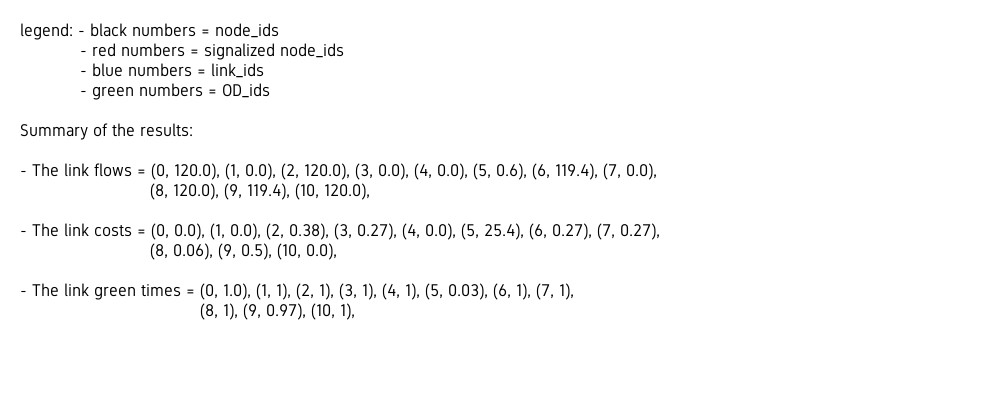
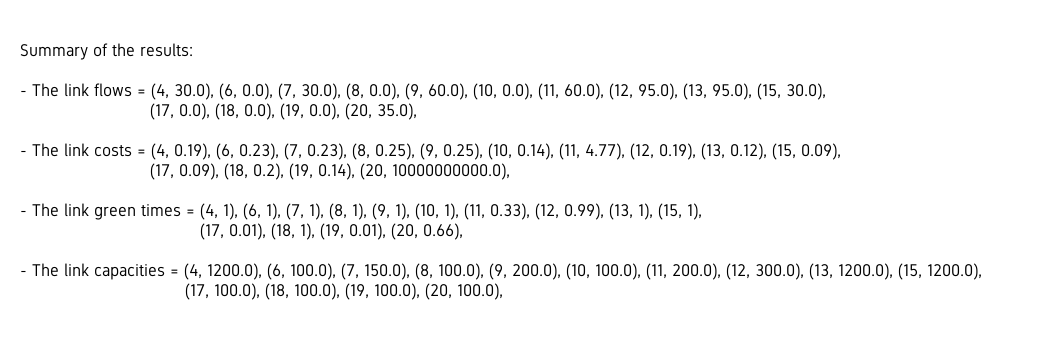
clean up of summaries + adjustment in de summary making (added capacity)

diff --git a/ownCode/network_summary.py b/ownCode/network_summary.py
@@ -6,7 +6,7 @@ from html2image import Html2Image
 import cv2
 
 def text_to_image(textString, size = 'summary'):
-    img = Image.new('RGB', (500, 400), (255, 255, 255)) if size == 'summary' else Image.new('RGB', (1000, 400), (255, 255, 255))
+    img = Image.new('RGB', (550, 400), (255, 255, 255)) if size == 'summary' else Image.new('RGB', (1050, 350), (255, 255, 255))
     d = ImageDraw.Draw(img)
     font = ImageFont.truetype(str(pathlib.Path(__file__).parent)+"/data/Gidole-Regular.ttf", size=17)
     d.text((20, 20), textString, fill=(0, 0, 0), font = font)
@@ -39,33 +39,38 @@ def create_summary(listOfPlots, string, property_string, method, policy, network
 
 
 def demand_summary(O_or_D, OD_flow, signalized_nodes):
-    string = '\n\nOD_nodes\n'
-    for idx, (x,y) in enumerate(O_or_D):
-        string+= '- {}: coordinates = ({},{})\n'.format(idx+1, x, y)
-    string += '\n\nFlows\n'
+    string = '\n\nDemands\n'
     for (o,d,flow) in OD_flow:
-        string+='- {} flow from: node {} -> node {}\n'.format(flow, o, d)
+        string+='- {} flow from: Origin_{} ->  Destination_{}\n'.format(flow, o, d)
     string += '\n\nSignalized nodes\n'
     for node_id in signalized_nodes:
         string += '- node {}\n'.format(node_id)
+    string += '\n\nLegend:\n- black numbers = node_ids\n- red numbers = signalized node_ids\n- blue numbers = link_ids\n- green numbers = OD_ids'
+
     return string
 
-def result_summary(result,greens):
-    string = 'legend: - black numbers = node_ids\n            - red numbers = signalized node_ids\n            - blue numbers = link_ids\n            - green numbers = OD_ids\n\nSummary of the results:\n\n'
+def result_summary(result,greens, capacities, non_connectors):
+    step = 0
+    string = '\nSummary of the results:\n\n'
     string1 = '- The link flows = '
     string2 = '- The link costs = '
     string3 = '- The link green times = '
+    string4 = '- The link capacities = '
+    for idx, (flow, cost, green, cap) in enumerate(zip(result.flows, result.link_costs, greens.values(), capacities)):
+        if idx in non_connectors:
+            string1 += '({}, {}), '.format(idx,round(flow,2)) 
+            string2 += '({}, {}), '.format(idx,round(cost,2))        
+            string3 += '({}, {}), '.format(idx,round(green,2))
+            string4 += '({}, {}), '.format(idx,round(cap,2))
+            step+=1
 
-    for idx, (flow, cost, green) in enumerate(zip(result.flows, result.link_costs, greens.values())):
-        string1 += '({}, {}), '.format(idx,round(flow,2)) 
-        string2 += '({}, {}), '.format(idx,round(cost,2))        
-        string3 += '({}, {}), '.format(idx,round(green,2))
-        if (idx+1)%8 == 0:
-            string1 += '\n                          '
-            string2 += '\n                          '
-            string3 += '\n                                    '
-
+            if (step)%10 == 0:
+                string1 += '\n                          '
+                string2 += '\n                          '
+                string3 += '\n                                    '
+                string4 += '\n                                 '
     string1 += '\n\n'
     string2 += '\n\n'
     string3 += '\n\n'
-    return string+string1+string2+string3
+    string4 += '\n\n'
+    return string+string1+string2+string3+string4

diff --git a/ownCode/main.py b/ownCode/main.py
@@ -28,37 +28,38 @@ def main():
         #two green time policies
         # 'equisaturation' 
         # 'P0'
-    methodGreen = 'P0'
+    methodGreen = 'equisaturation'
 
     # Chose your network type 
         # complex
         # merge
         # simple
-    network_type = 'two-node'
+        # two-node
+    network_type = 'complex'
 
     # Every element of this list is a tuple (x,y) with the coordinates of an origin or destination
     
-    #O_or_D = [(10,35),(30,15),(50,35),(90,35)] #this one is saved for the complex network
+    O_or_D = [(10,35),(30,15),(50,35),(90,35)] #this one is saved for the complex network
     #O_or_D = [(0,30),(0,0),(35,30)] #this one is saved for the merge network
     #O_or_D = [(0,30),(35,30)] #this one is saved for the simple network
-    O_or_D = [(0,30),(65,30)] #this one is saved for the two node signal network
+    #O_or_D = [(0,30),(65,30)] #this one is saved for the two node signal network
 
     # This is a list of tuples (x,y,z) with x the origin, y the destination and z the flow (after relabeling)
     # X and Y = the location of the element in the O_or_D list 
     
-    #OD_flow = [(0,3,90),(1,3,50),(2,3,50)] #this one is saved for the complex network
+    OD_flow = [(0,3,30),(1,3,30),(2,3,35)] #this one is saved for the complex network
     #OD_flow = [(0,2,80),(1,2,40)] #this one is saved for the merge network
     #OD_flow = [(0,1,120)] #this one is saved for the merge network
-    OD_flow = [(0,1,120)] #this one is saved for the two node signal network
+    #OD_flow = [(0,1,120)] #this one is saved for the two node signal network
 
     # Signalized nodes id (after relabeling!!)
-    #signalized_nodes = [10,11] #complex
+    signalized_nodes = [10,11] #complex
     #signalized_nodes = [4] #merge
     #signalized_nodes = [3] #simple
-    signalized_nodes = [3,5]
+    #signalized_nodes = [3,5]
 
     # show the plot in browser or make a summary
-    summary = False
+    summary = True
 
     #setup
     print("\nSTARTING SETUP\n")
@@ -121,7 +122,8 @@ def main():
         summary_string = 'SUMMARY: cost method = {}, heuristic = {}'.format(methodCost, methodGreen)
         summary_string += demand_summary(O_or_D, OD_flow,signalized_nodes )
         demand = sum([flow for (_,_,flow) in OD_flow])
-        create_summary(listOfPlots, summary_string, result_summary(result,greens), methodCost, methodGreen, network_type, demand)
+        result_summary_string = result_summary(result,greens,assignment.internal_network.links.capacity,non_connectors)
+        create_summary(listOfPlots, summary_string, result_summary_string, methodCost, methodGreen, network_type, demand)
         
 
 main()

diff --git a/ownCode/own_networks.py b/ownCode/own_networks.py
@@ -51,9 +51,9 @@ def makeOwnToyNetwork(form: str):
             (300, 80),
             (1200, 80),
             (100, 80),
-            (50, 80),
-            (50, 80),
-            (50, 80),
+            (100, 80),
+            (100, 80),
+            (100, 80),
             (1200, 80),
             (100,80)
         ]

diff --git a/ownCode/cost_functions.py b/ownCode/cost_functions.py
@@ -37,7 +37,7 @@ def __webster_two_term_green(flows, capacities, ff_tts, g_times, tot_links):
 
 def __webster_two_term_green_single(flow, capacity, ff_tt, g_time):
     dos = flow/(capacity*g_time)
-    if dos >= 0.99:
+    if dos >= 1:
         cost = 10**10
     elif dos <= 0.01:
         cost = ff_tt
